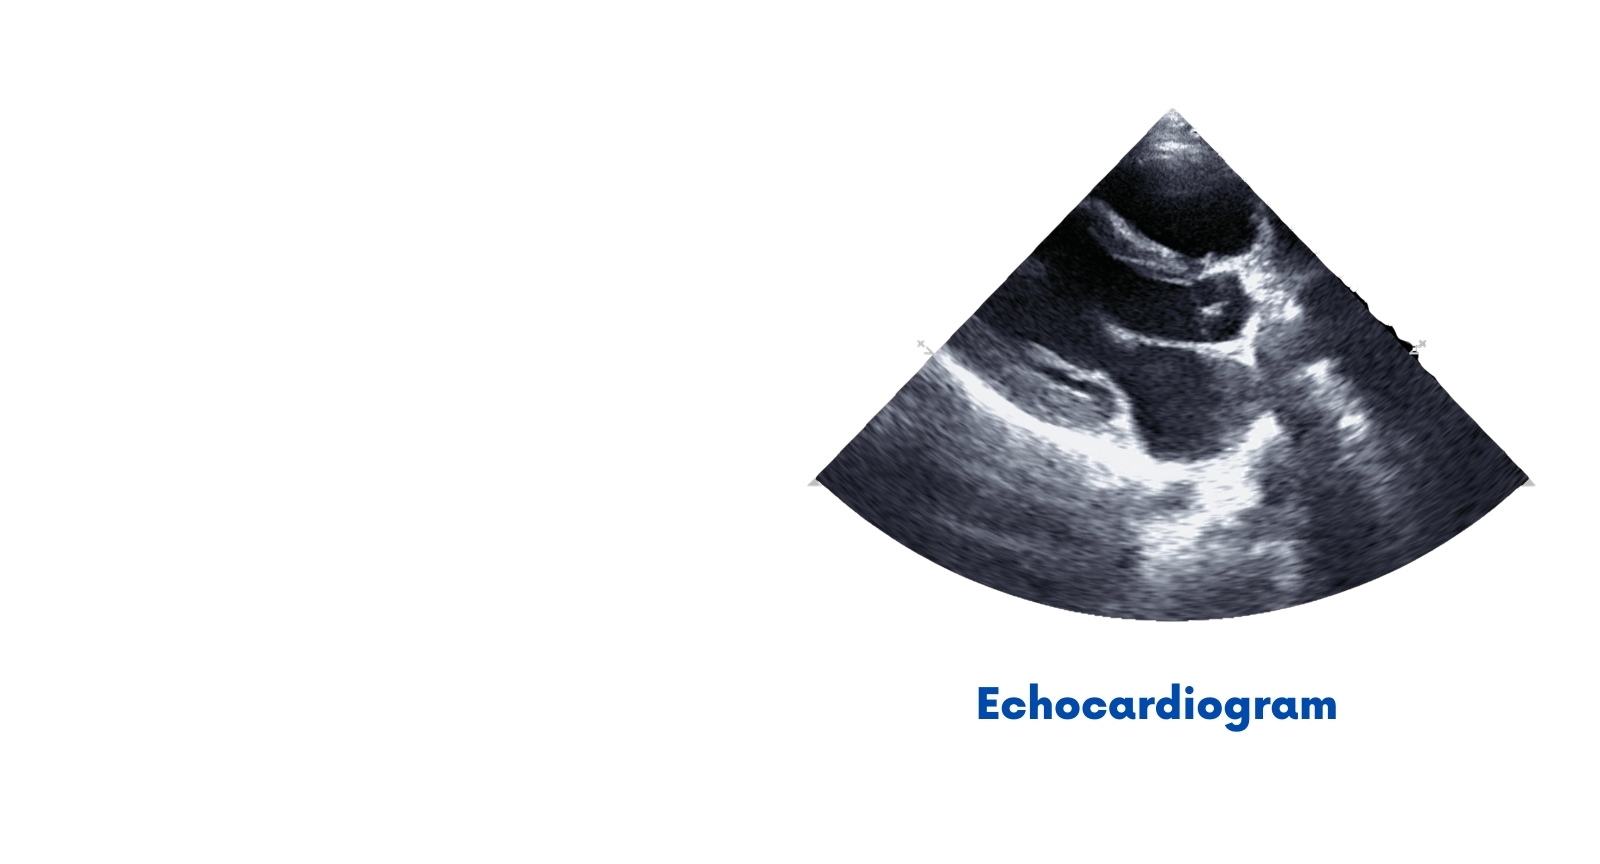
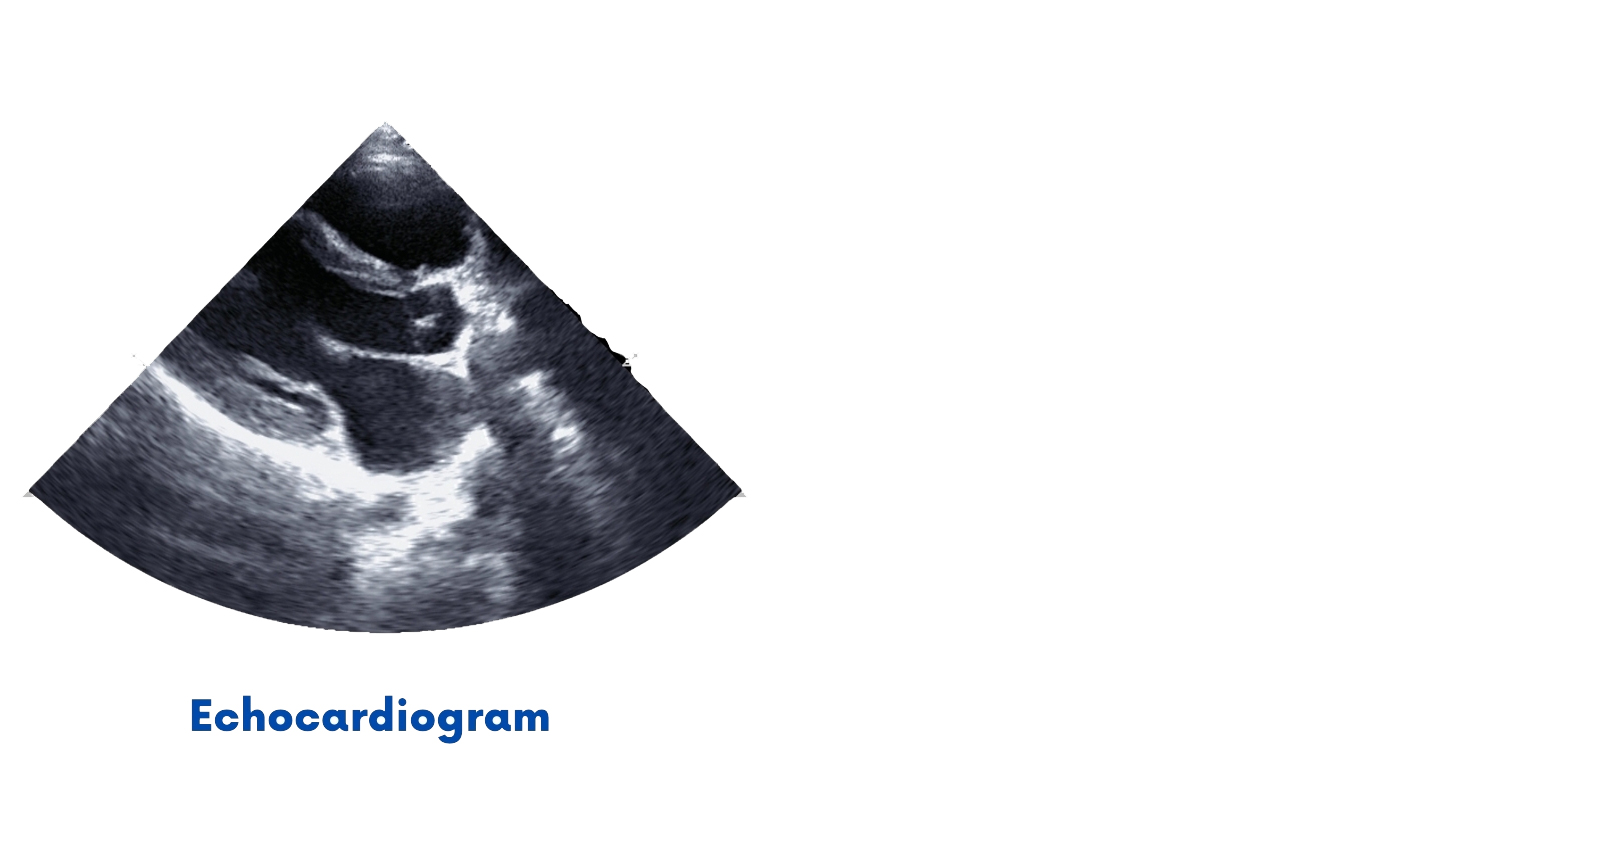
about us services added and services two images added

diff --git a/aboutus.html b/aboutus.html
@@ -196,29 +196,57 @@
                 </div>
             </div>
             <div class="row mt-5 mb-3">
-                <div class="col-lg-8 p-0 d-flex flex-row flex-wrap justify-content-between">
-                    <div class="col-md-4 col-12">
-                        <div class="about-box service-tab active" data-tab="service-1">
-                            <span class="icon mb-3 d-none d-lg-flex">
-                                <span class="fa fa-heartbeat font-30 font-lg-40"></span>
-                            </span>
-                            <h4 class="font-16 font-lg-22">Electrocardiogram</h4>
+                <div class="col-lg-12 p-0 d-flex flex-row flex-wrap justify-content-between">
+                    <div class="col-lg-12 p-0 row-1 col-wrapper d-flex flex-row flex-wrap justify-content-between">
+                        <div class="col-lg-2 col-12 p-0 column1 left-column">
+                            <div class="col-md-12 p-lg-0">
+                                <div class="about-box service-tab active" data-tab="service-1">
+                                    <span class="icon mx-auto mb-3 d-none d-lg-flex">
+                                        <span class="fa fa-heartbeat font-30 font-lg-40"></span>
+                                    </span>
+                                    <h4 class="font-14 font-lg-16 text-left text-lg-center">Electrocardiogram <br class="d-none d-lg-block"> &nbsp; </h4>
+                                </div>
+                            </div>
                         </div>
-                    </div>
-                    <div class="col-md-4 col-12">
-                        <div class="about-box service-tab" data-tab="service-2">
-                            <span class="icon mb-3 d-none d-lg-flex">
-                                <span class="fa fa-heartbeat font-30 font-lg-40"></span>
-                            </span>
-                            <h4 class="font-16 font-lg-22">Treadmill Test</h4>
+                        <div class="col-lg-2 col-12 p-0 column2 left2-column">
+                            <div class="col-md-12 p-lg-0">
+                                <div class="about-box service-tab" data-tab="service-2">
+                                    <span class="icon mx-auto mb-3 d-none d-lg-flex">
+                                        <span class="fa fa-heartbeat font-30 font-lg-40"></span>
+                                    </span>
+                                    <h4 class="font-14 font-lg-16 text-left text-lg-center">Echocardiogram <br class="d-none d-lg-block"> &nbsp; </h4>
+                                </div>
+                            </div>
                         </div>
-                    </div>
-                    <div class="col-md-4 col-12">
-                        <div class="about-box service-tab" data-tab="service-3">
-                            <span class="icon mb-3 d-none d-lg-flex">
-                                <span class="fa fa-heartbeat font-30 font-lg-40"></span>
-                            </span>
-                            <h4 class="font-16 font-lg-22">Echocardiogram</h4>
+                        <div class="col-lg-2 col-12 p-0 column3 mid-column">
+                            <div class="col-md-12 p-lg-0">
+                                <div class="about-box service-tab" data-tab="service-3">
+                                    <span class="icon mx-auto mb-3 d-none d-lg-flex">
+                                        <span class="fa fa-heartbeat font-30 font-lg-40"></span>
+                                    </span>
+                                    <h4 class="font-14 font-lg-16 text-left text-lg-center">Treadmill Test <br class="d-none d-lg-block"> &nbsp; </h4>
+                                </div>
+                            </div>
+                        </div>
+                        <div class="col-lg-2 col-12 p-0 column4 right2-column">
+                            <div class="col-md-12 p-lg-0">
+                                <div class="about-box service-tab" data-tab="service-4">
+                                    <span class="icon mx-auto mb-3 d-none d-lg-flex">
+                                        <span class="fa fa-heartbeat font-30 font-lg-40"></span>
+                                    </span>
+                                    <h4 class="font-14 font-lg-16 text-left text-lg-center">24 Hrs Holter Monitoring <br class="d-none d-lg-block"> &nbsp; </h4>
+                                </div>
+                            </div>
+                        </div>
+                        <div class="col-lg-2 col-12 p-0 column5 right-column">
+                            <div class="col-md-12 p-lg-0">
+                                <div class="about-box service-tab" data-tab="service-5">
+                                    <span class="icon mx-auto mb-3 d-none d-lg-flex">
+                                        <span class="fa fa-heartbeat font-30 font-lg-40"></span>
+                                    </span>
+                                    <h4 class="font-14 font-lg-16 text-left text-lg-center">24 Hrs Ambulatory BP Monitoring</h4>
+                                </div>
+                            </div>
                         </div>
                     </div>
                 </div>
@@ -226,7 +254,7 @@
             <div class="row">
                 <div class="col-lg-12 p-0 row-1 service-1-content tab-content active" data-content="service-1">
                     <div class="col-lg-12 col-wrapper d-flex flex-row flex-wrap justify-content-between">
-                        <div class="col-lg-5 p-0 column1 left-column">
+                        <div class="col-lg-5 p-0 column1 left-column pb-3 pb-lg-0">
                             <div class="col-lg-12 p-0">
                                 <img src="images/about-ecg.jpg" class="img-fluid" alt="">
                             </div>
@@ -241,9 +269,28 @@
                         </div>
                     </div>
                 </div>
-                <div class="col-lg-12 p-0 row-2 service-2-content tab-content" data-content="service-2">
+                <div class="col-lg-12 p-0 row-3 service-3-content tab-content" data-content="service-2">
                     <div class="col-lg-12 col-wrapper d-flex flex-row flex-wrap justify-content-between">
-                        <div class="col-lg-5 p-0 column1 left-column">
+                        <div class="col-lg-5 p-0 column1 left-column pb-3 pb-lg-0">
+                            <div class="col-lg-12 p-0">
+                                <img src="images/about-echodiagram.jpg" class="img-fluid" alt="">
+                            </div>
+                        </div>
+                        <div class="col-lg-7 p-0 pl-lg-5 column2 right-column">
+                            <div class="col-lg-12 p-0">
+                                <h3>Echocardiogram</h3>
+                                <p>The echocardiogram is an ultrasound of the heart that provides live information about the structure and function of the heart. It is a painless procedure. There is no need to be on fasting for ECHO.
+                                <br>
+                                Echocardiogram will show very clearly about the heart size and heart function .It will show us the cardiac valves ,chambers and flow of blood within the heart. It also helps us to identify Congenital heart diseases (heart diseases from birth).It can detect major heart attack very clearly by identifying variation in heart's pumping capacity. Sometimes silent heart attacks (major heart attack happening without chest pain) also will be detected by Echo especially in diabetic patients and elderly people.
+                                <br>
+                                Echo can detect only when the artery supplying the heart is totally blocked or near total blocked. .ECHO may be normal even when there is more than 70 to 80%blockage.</p>
+                            </div>
+                        </div>
+                    </div>
+                </div>
+                <div class="col-lg-12 p-0 row-2 service-2-content tab-content" data-content="service-3">
+                    <div class="col-lg-12 col-wrapper d-flex flex-row flex-wrap justify-content-between">
+                        <div class="col-lg-5 p-0 column1 left-column pb-3 pb-lg-0">
                             <div class="col-lg-12 p-0">
                                 <img src="images/about-treadmill.jpg" class="img-fluid" alt="">
                             </div>
@@ -258,21 +305,77 @@
                         </div>
                     </div>
                 </div>
-                <div class="col-lg-12 p-0 row-3 service-3-content tab-content" data-content="service-3">
+                <div class="col-lg-12 p-0 row-1 service-1-content tab-content active" data-content="service-4">
                     <div class="col-lg-12 col-wrapper d-flex flex-row flex-wrap justify-content-between">
-                        <div class="col-lg-5 p-0 column1 left-column">
+                        <div class="col-lg-5 p-0 column1 left-column pb-3 pb-lg-0">
+                            <div class="col-lg-12 p-0">
+                                <img src="images/about-ecg.jpg" class="img-fluid" alt="">
+                            </div>
+                        </div>
+                        <div class="col-lg-7 p-0 pl-lg-5 column2 right-column">
+                            <div class="col-lg-12 p-0">
+                                <h3 class="mb-4">24 Hrs HOLTER MONITORING</h3>
+                                <h4 class="font-16 font-lg-18 font-weight-500">What is a Holter Monitor ?</h4>
+                                <p>A Holter monitor is a  small, wearable battery-operated portable device .It  measures and records your heart’s rate and rhythm (ECG) continuously for 24 to 48 hours or even longer</p>
+                                <h4 class="font-16 font-lg-18 font-weight-500">Why is it done?</h4>
+                                <p>If you have symptoms like an  irregular or fast heart beat or unexplained giddiness or loss of consciousness, first ECG will be done. However, sometimes an ECG  doesn't detect any abnormalities in your heart rhythm because you're hooked up to the machine for only a short time. But a  Holter monitor being a continuous monitoring system will be able to detect irregularities in your heart rhythm that an ECG fails to pickup.</p>
+                                <h4 class="font-16 font-lg-18 font-weight-500">How is it done ?</h4>
+                                <ul>
+                                    <li>Holter monitoring is a noninvasive and painless procedure. The technician first attaches the electrodes to your chest. You can carry the monitor in a pocket or a pouch, slung across your shoulders and neck like a purse or attach it to your waist.</li>
+                                    <li>Once your monitoring begins — you must wear it at all times, even while you sleep but&nbsp; you can carry out&nbsp; all your usual daily activities.</li>
+                                    <li>Avoid activities that might lead to the monitor getting wet or damaged
+                                        <ul>
+                                            <li>1.Don’t bathe, shower or swim while wearing the monitor.</li>
+                                            <li>2.Don’t have X-rays done while wearing the monitor.</li>
+                                            <li>3.Stay away from high-voltage areas, metal detectors or large magnets.</li>
+                                        </ul>
+                                    </li>
+                                    <li>If you feel symptoms such as chest pain, shortness of breath, uneven heartbeats or dizziness, note in your diary the time of day they began and what you were doing. Your diary will be compared to the changes in your ECG recorded by the Holter monitor.</li>
+                                </ul>
+                            </div>
+                        </div>
+                    </div>
+                </div>
+                <div class="col-lg-12 p-0 row-3 service-3-content tab-content" data-content="service-5">
+                    <div class="col-lg-12 col-wrapper d-flex flex-row flex-wrap justify-content-between">
+                        <div class="col-lg-5 p-0 column1 left-column pb-3 pb-lg-0">
                             <div class="col-lg-12 p-0">
                                 <img src="images/about-echodiagram.jpg" class="img-fluid" alt="">
                             </div>
                         </div>
                         <div class="col-lg-7 p-0 pl-lg-5 column2 right-column">
                             <div class="col-lg-12 p-0">
-                                <h3>Echocardiogram</h3>
-                                <p>The echocardiogram is an ultrasound of the heart that provides live information about the structure and function of the heart. It is a painless procedure. There is no need to be on fasting for ECHO.
-                                <br>
-                                Echocardiogram will show very clearly about the heart size and heart function .It will show us the cardiac valves ,chambers and flow of blood within the heart. It also helps us to identify Congenital heart diseases (heart diseases from birth).It can detect major heart attack very clearly by identifying variation in heart's pumping capacity. Sometimes silent heart attacks (major heart attack happening without chest pain) also will be detected by Echo especially in diabetic patients and elderly people.
-                                <br>
-                                Echo can detect only when the artery supplying the heart is totally blocked or near total blocked. .ECHO may be normal even when there is more than 70 to 80%blockage.</p>
+                                <h3 class="mb-4">24 Hrs AMBULATORY BP MONITORING</h3>
+                                <h4 class="font-16 font-lg-18 font-weight-500">What is ABPM ?</h4>
+                                <p>The 24-hour ambulatory BP monitor is a  small portable device connected to the arm cuff with tubing that measure blood pressure every 15 to 30 minutes. After 24 hours, the patient returns, and the data is downloaded.</p>
+                                <h4 class="font-16 font-lg-18 font-weight-500">Why is it done ?</h4>
+                                <p>The  BP measured in the clinic  may not reflect the true BP levels. When Clinic BP levels are elevated, 24-h ABPM should be done to confirm the diagnosis of Hypertension. Accurate BP monitoring is essential for blood pressure evaluation and management
+                                    <br><br>
+                                    Ambulatory blood pressure monitoring allows many blood pressure (BP) readings to be recorded over a 24-hour period
+                                    <br>
+                                    The most useful information includes
+                                </p>
+                                <ul>
+                                    <li>24-hour average blood pressure</li>
+                                    <li>Average daytime blood pressure</li>
+                                    <li>Average nighttime blood pressure</li>
+                                    <li>The calculated percentage drop in blood pressure at night.</li>
+                                </ul>
+                                <p>
+                                    In normal persons BP should slightly fall while sleeping. If this fall doesn’t happen or if there is a paradoxical rise in BP while sleeping there will be an increased risk of heart attack. The ABPM’s  unique ability to evaluate BP at night while sleeping makes it a superior instrument for BP management and in prediction of  heart attack risk.
+                                </p>
+                                <h4 class="font-16 font-lg-18 font-weight-500">How is it done ?</h4>
+                                <p>The ABPM should be done on a normal workday rather than a rest day to obtain a typical BP profile. The readings should be taken every 20–30 min during the day and every 30–60 min at night to avoid interfering with activity or sleep.</p>
+                                <p><b>Uses of ABPM -</b> 24 hrs ambulatory BP monitoring is recommended for the screening and evaluation of </p>
+                                <ol>
+                                    <li><strong>Masked hypertension</strong> (It is normal BP while measured in clinic but high otherwise. 10-25% of persons with normal BP have masked hypertension and it is associated with high heart attack risk. It is common in elderly men, smokers, diabetics and kidney patients. These patients should be treated with antihypertensives and normal BP should be achieved to reduce the risk.</li>
+                                    <li>White coat hypertension ( It is high BP only while measured in clinic but normal BP otherwise)</li>
+                                    <li>Suspected episodic hypertension</li>
+                                    <li>Hypotensive episodes while on medications</li>
+                                    <li>For the assessment of nocturnal decreases in BP</li>
+                                    <li>For the follow-up of hypertensive therapies</li>
+                                    <li>For individuals with orthostatic hypotension and supine hypertension.</li>
+                                </ol>
                             </div>
                         </div>
                     </div>

diff --git a/services.html b/services.html
@@ -202,7 +202,7 @@
             </div>
         </div>
     </section>
-    <section class="treadmill-service-section two-col-section py-lg-5 py-0 right-text-left-image-section">
+    <section class="echocardiogram-service-section two-col-section py-lg-5 py-0 right-text-left-image-section">
         <div class="container">
             <div class="row">
                 <div class="col-lg-12 col-wrapper d-flex flex-row flex-wrap justify-content-between py-lg-5 py-0">
@@ -212,32 +212,6 @@
                         </div>
                     </div>
                     <div class="col-lg-6 p-0 column1 left-column right-text">
-                        <div class="col-lg-12 p-0">
-                            <h3 class="mb-4">Treadmill Test</h3>
-                            <h4 class="font-16 font-lg-18 font-weight-500">Sub Heading</h4>
-                            <p>During a standard exercise test, you walk on a treadmill at progressively faster speeds
-                                while health care providers monitor your heart's electrical activity, your heart rate,
-                                and your blood pressure .Throughout the test, the speed and incline of the treadmill
-                                increase gradually. The actual test takes only around 15 minutes.
-                                <br><br>
-                                Stress tests can detect when arteries have 70 percent or more blockage. But normal
-                                results from a stress test do not rule out the possibility of a future heart attack.
-                                This is because a small plaque can still rupture, form clots and block an artery
-                                completely. A normal test result indicates there is sufficient and unrestricted blood
-                                flow to your heart, both during periods of rest and exercise. ... An abnormal result,
-                                which means your heart's blood flow is insufficient, may occur only during the exercise
-                                phase of your stress test</p>
-                        </div>
-                    </div>
-                </div>
-            </div>
-        </div>
-    </section>
-    <section class="echocardiogram-service-section two-col-section py-lg-5 left-text-right-image-section">
-        <div class="container">
-            <div class="row">
-                <div class="col-lg-12 col-wrapper d-flex flex-row flex-wrap justify-content-between py-5">
-                    <div class="col-lg-6 p-0 column1 left-column left-text">
                         <div class="col-lg-12 p-0">
                             <h3 class="mb-4">Echocardiogram</h3>
                             <h4 class="font-16 font-lg-18 font-weight-500">Sub Heading</h4>
@@ -256,6 +230,32 @@
                                 blocked ECHO may be normal even when there is more than 70 to 80%blockage.</p>
                         </div>
                     </div>
+                </div>
+            </div>
+        </div>
+    </section>
+    <section class="treadmill-service-section two-col-section py-lg-5 left-text-right-image-section">
+        <div class="container">
+            <div class="row">
+                <div class="col-lg-12 col-wrapper d-flex flex-row flex-wrap justify-content-between py-5">
+                    <div class="col-lg-6 p-0 column1 left-column left-text">
+                        <div class="col-lg-12 p-0">
+                            <h3 class="mb-4">Treadmill Test</h3>
+                            <h4 class="font-16 font-lg-18 font-weight-500">Sub Heading</h4>
+                            <p>During a standard exercise test, you walk on a treadmill at progressively faster speeds
+                                while health care providers monitor your heart's electrical activity, your heart rate,
+                                and your blood pressure .Throughout the test, the speed and incline of the treadmill
+                                increase gradually. The actual test takes only around 15 minutes.
+                                <br><br>
+                                Stress tests can detect when arteries have 70 percent or more blockage. But normal
+                                results from a stress test do not rule out the possibility of a future heart attack.
+                                This is because a small plaque can still rupture, form clots and block an artery
+                                completely. A normal test result indicates there is sufficient and unrestricted blood
+                                flow to your heart, both during periods of rest and exercise. ... An abnormal result,
+                                which means your heart's blood flow is insufficient, may occur only during the exercise
+                                phase of your stress test</p>
+                        </div>
+                    </div>
                     <div class="col-lg-6 p-0 column2 right-column right-image">
                         <div class="col-lg-12 p-0">
                            <span class="invisible">.</span>
@@ -265,7 +265,7 @@
             </div>
         </div>
     </section>
-    <section class="treadmill-service-section two-col-section py-lg-5 py-0 right-text-left-image-section">
+    <section class="holtermonitoring-service-section two-col-section py-lg-5 py-0 right-text-left-image-section">
         <div class="container">
             <div class="row">
                 <div class="col-lg-12 col-wrapper d-flex flex-row flex-wrap justify-content-between py-lg-5 py-0">
@@ -300,7 +300,7 @@
             </div>
         </div>
     </section>
-    <section class="echocardiogram-service-section two-col-section py-lg-5 left-text-right-image-section">
+    <section class="ambulatory-service-section two-col-section py-lg-5 left-text-right-image-section">
         <div class="container">
             <div class="row">
                 <div class="col-lg-12 col-wrapper d-flex flex-row flex-wrap justify-content-between py-5">

diff --git a/css/styles.css b/css/styles.css
@@ -242,8 +242,9 @@ a:hover {
     box-shadow: 0 25px 98px 0 rgba(0, 0, 0, 0.03);
 }
 .about-box .icon, .ser_icon .icon {
-    width: 130px;
-    height: 130px;
+    width: 100px;
+    height: 100px;
+    margin: 0 auto;
     border-radius: 50%;
     display: block;
     line-height: 80px;
@@ -551,6 +552,12 @@ button:focus.navbar-toggler {
     }
     .echocardiogram-service-section {
         background-image: url(../images/service-Echocar.jpg);
+    }
+    .holtermonitoring-service-section {
+        background-image: url(../images/services-holter-monitor.jpg);
+    }
+    .ambulatory-service-section {
+        background-image: url(../images/services-ambulatory-24bp.jpg);
     }
     .logo-img {
         /* min-height: 128px; */
